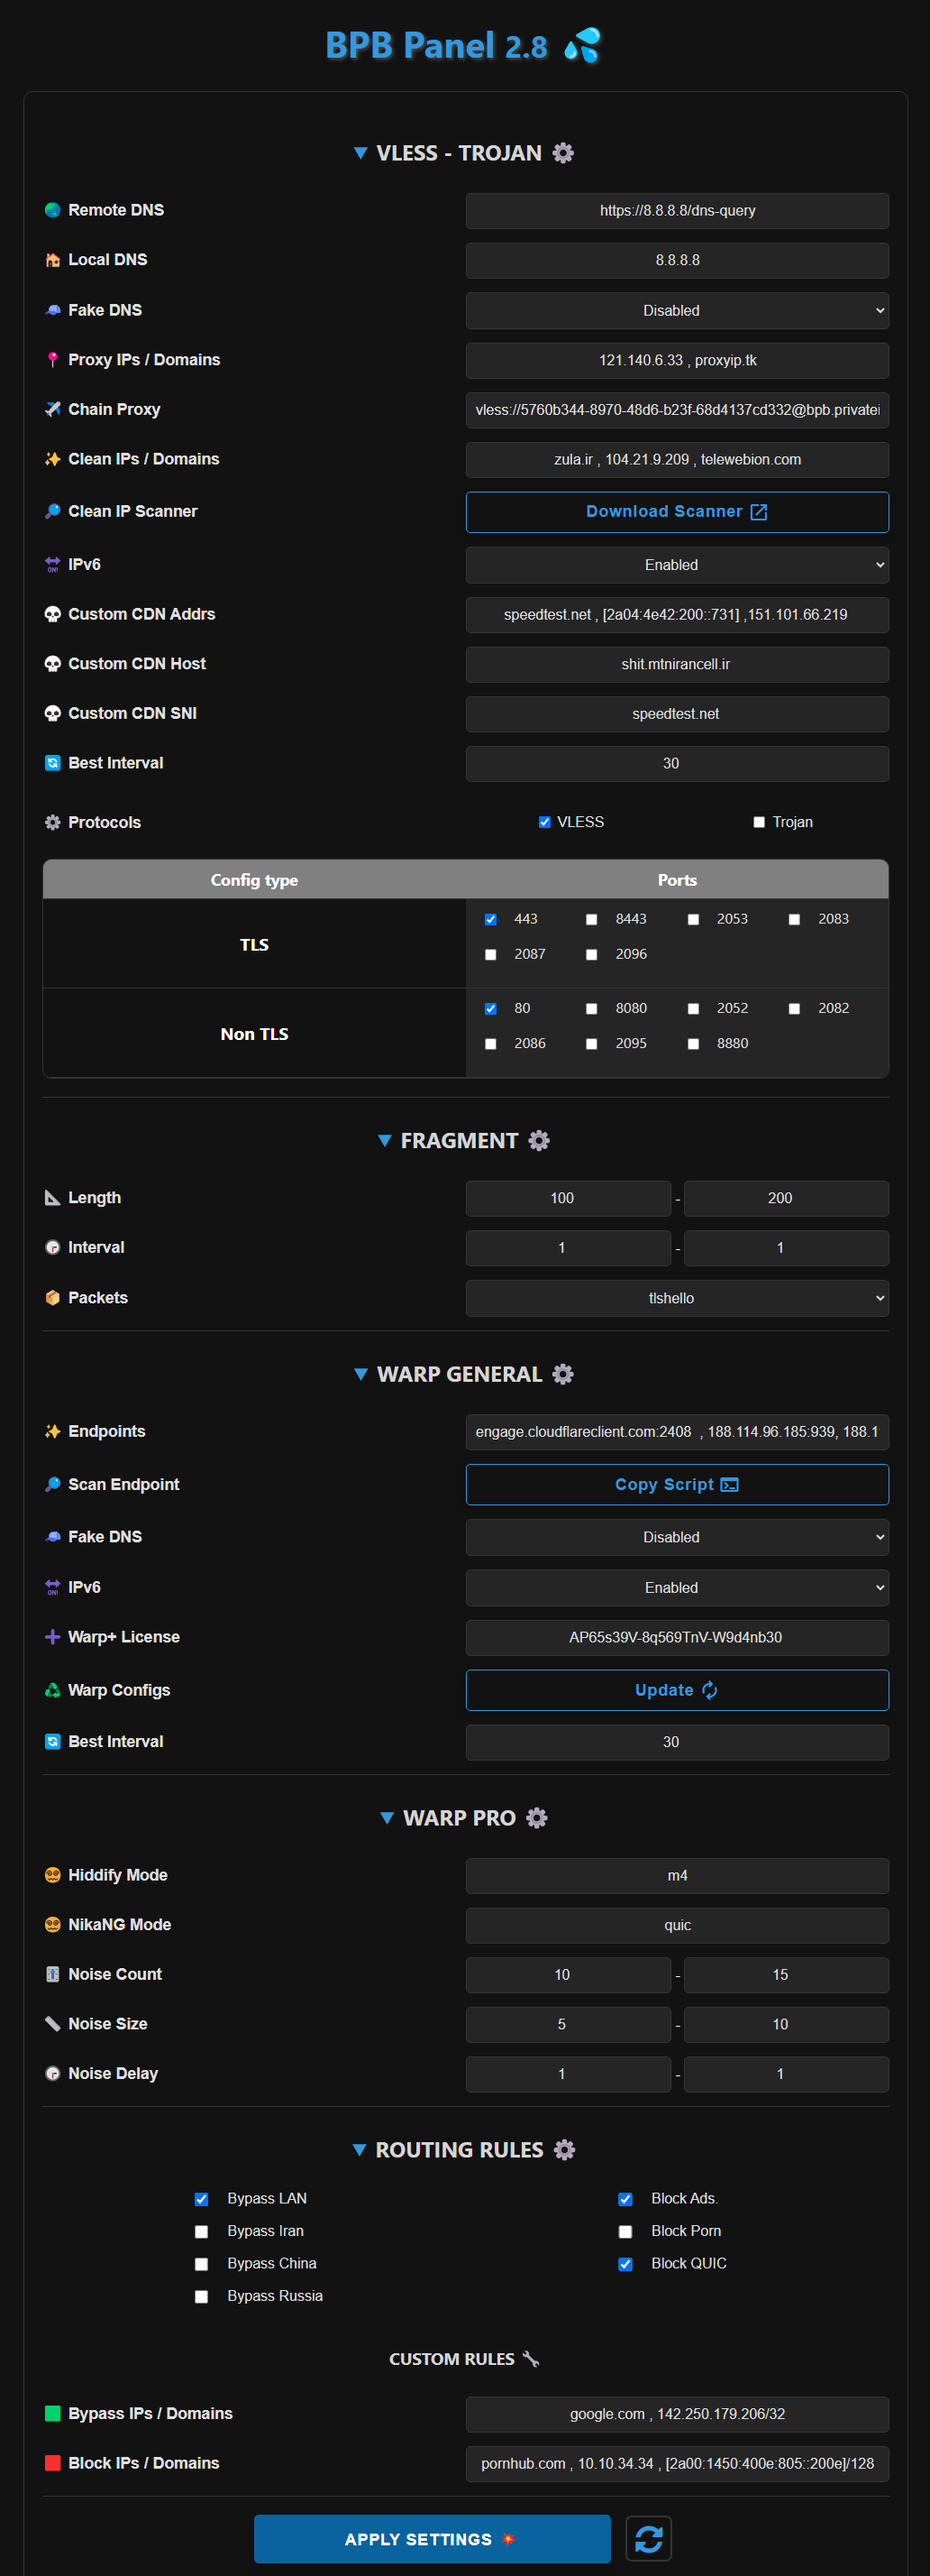
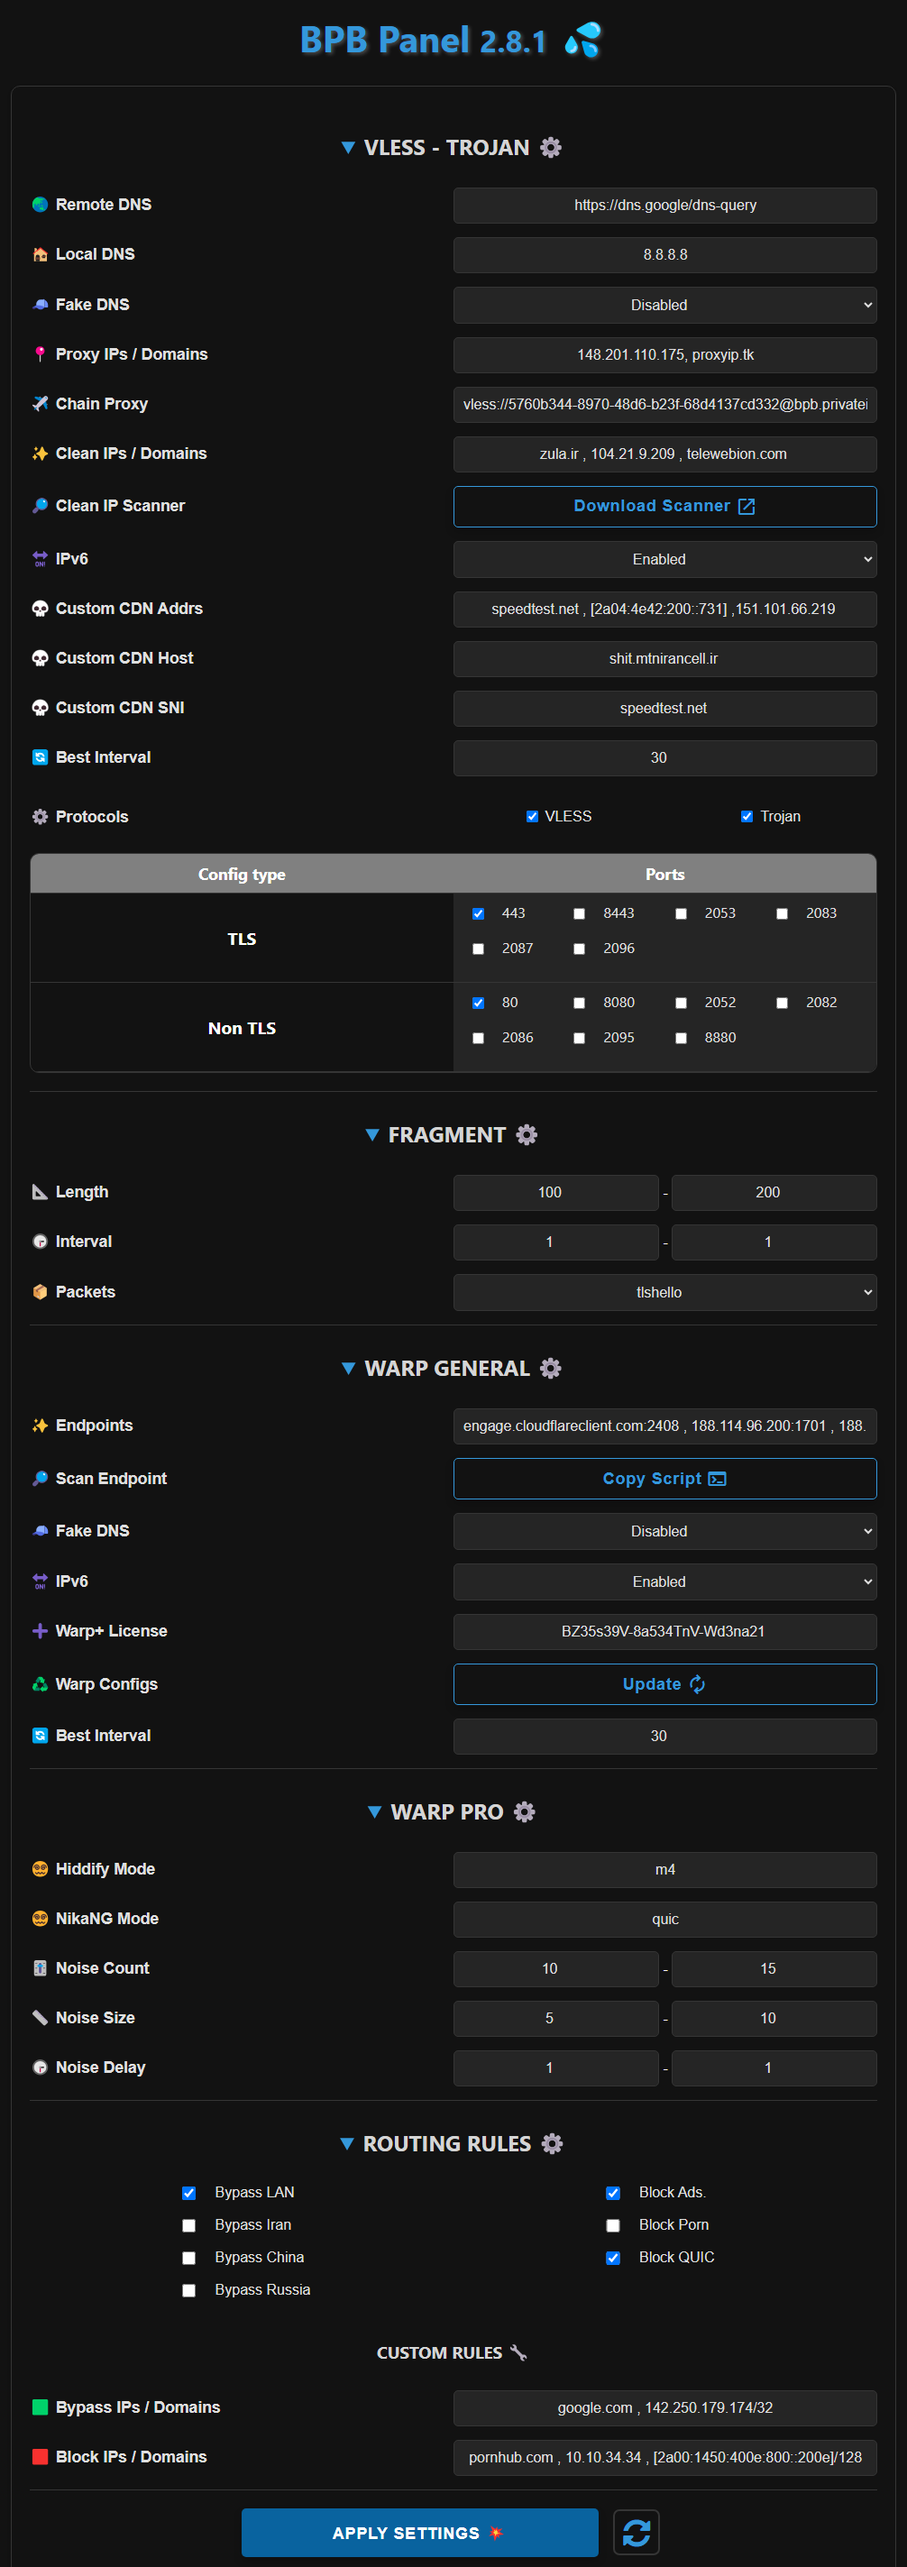
Fixed bug.

diff --git a/src/kv/handlers.js b/src/kv/handlers.js
@@ -36,7 +36,6 @@ export async function updateDataset (request, env) {
             throw new Error(`An error occurred while getting current KV settings - ${error}`);
         }
     } else {
-        await env.bpb.delete('warpConfigs');
         newSettings = null;
     }
 
@@ -115,7 +114,8 @@ export async function updateDataset (request, env) {
     };
 
     try {    
-        await env.bpb.put("proxySettings", JSON.stringify(proxySettings));          
+        await env.bpb.put("proxySettings", JSON.stringify(proxySettings));
+        await updateWarpConfigs(request, env);          
     } catch (error) {
         console.log(error);
         throw new Error(`An error occurred while updating KV - ${error}`);

diff --git a/src/helpers/init.js b/src/helpers/init.js
@@ -4,7 +4,7 @@ export function initializeParams(request, env) {
     const proxyIPs = env.PROXYIP?.split(',').map(proxyIP => proxyIP.trim());
     const url = new URL(request.url);
     const searchParams = new URLSearchParams(url.search);
-    globalThis.panelVersion = '2.8';
+    globalThis.panelVersion = '2.8.1';
     globalThis.defaultHttpPorts = ['80', '8080', '2052', '2082', '2086', '2095', '8880'];
     globalThis.defaultHttpsPorts = ['443', '8443', '2053', '2083', '2087', '2096'];
     globalThis.userID = env.UUID;
